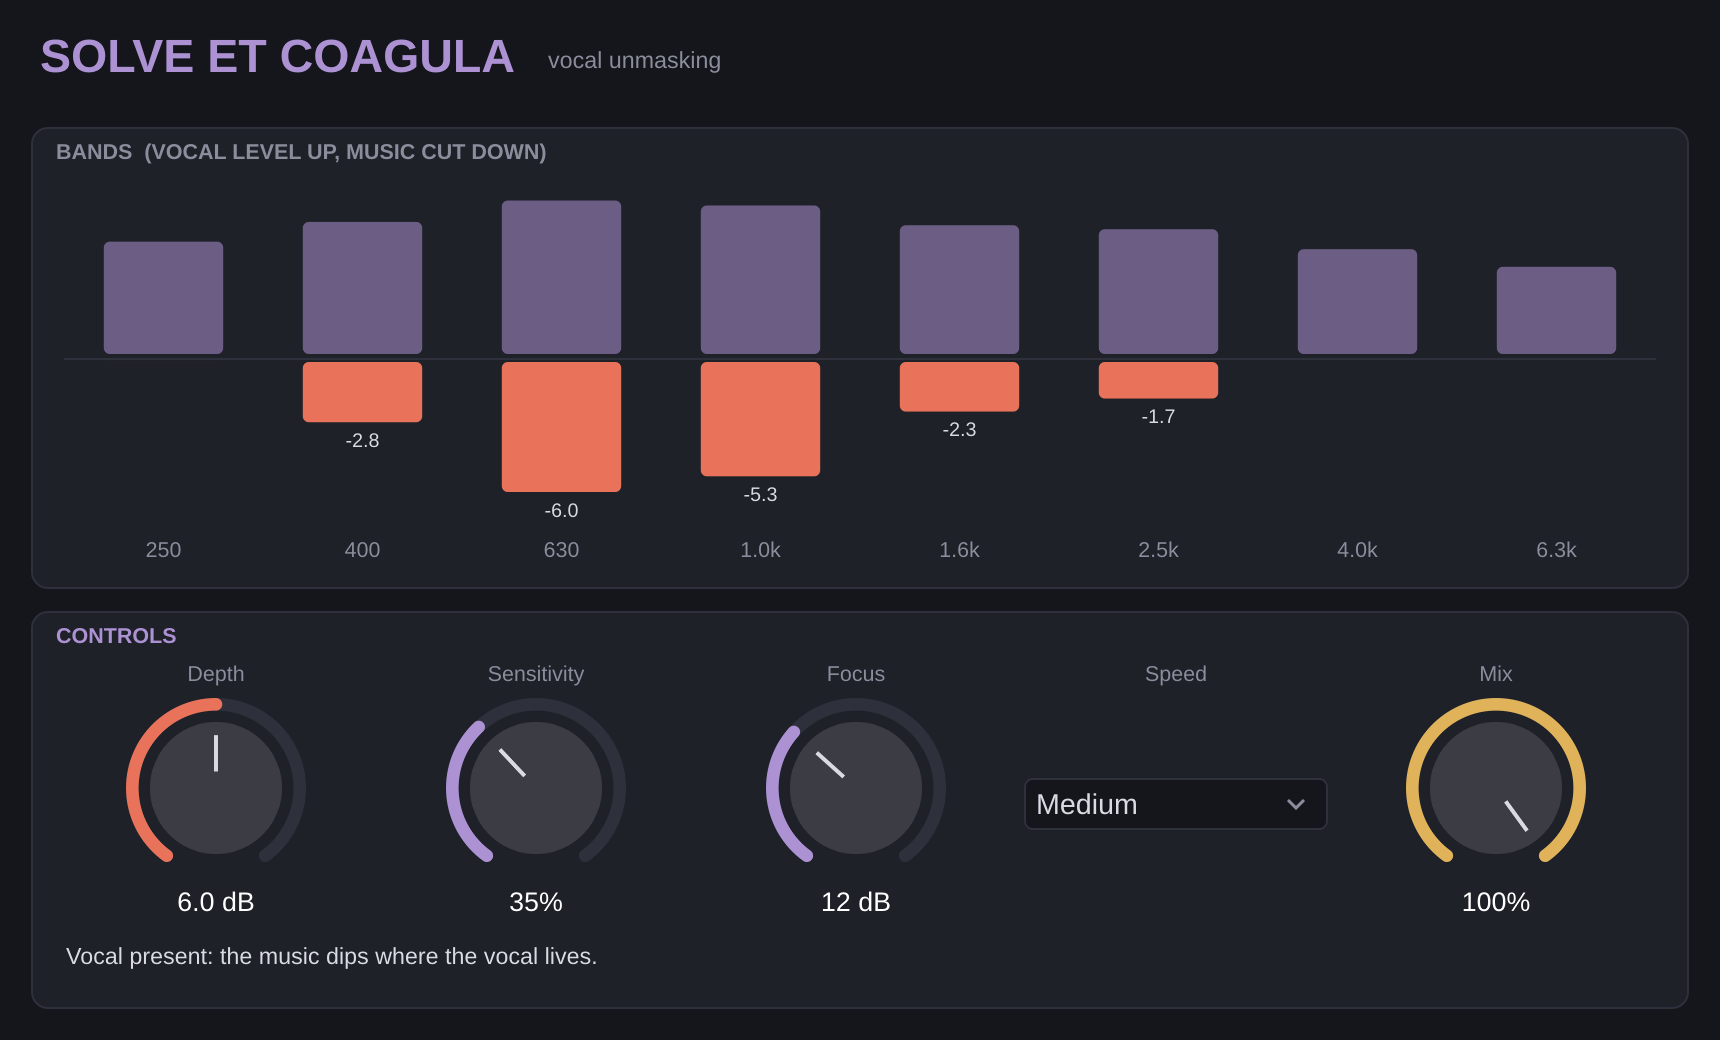
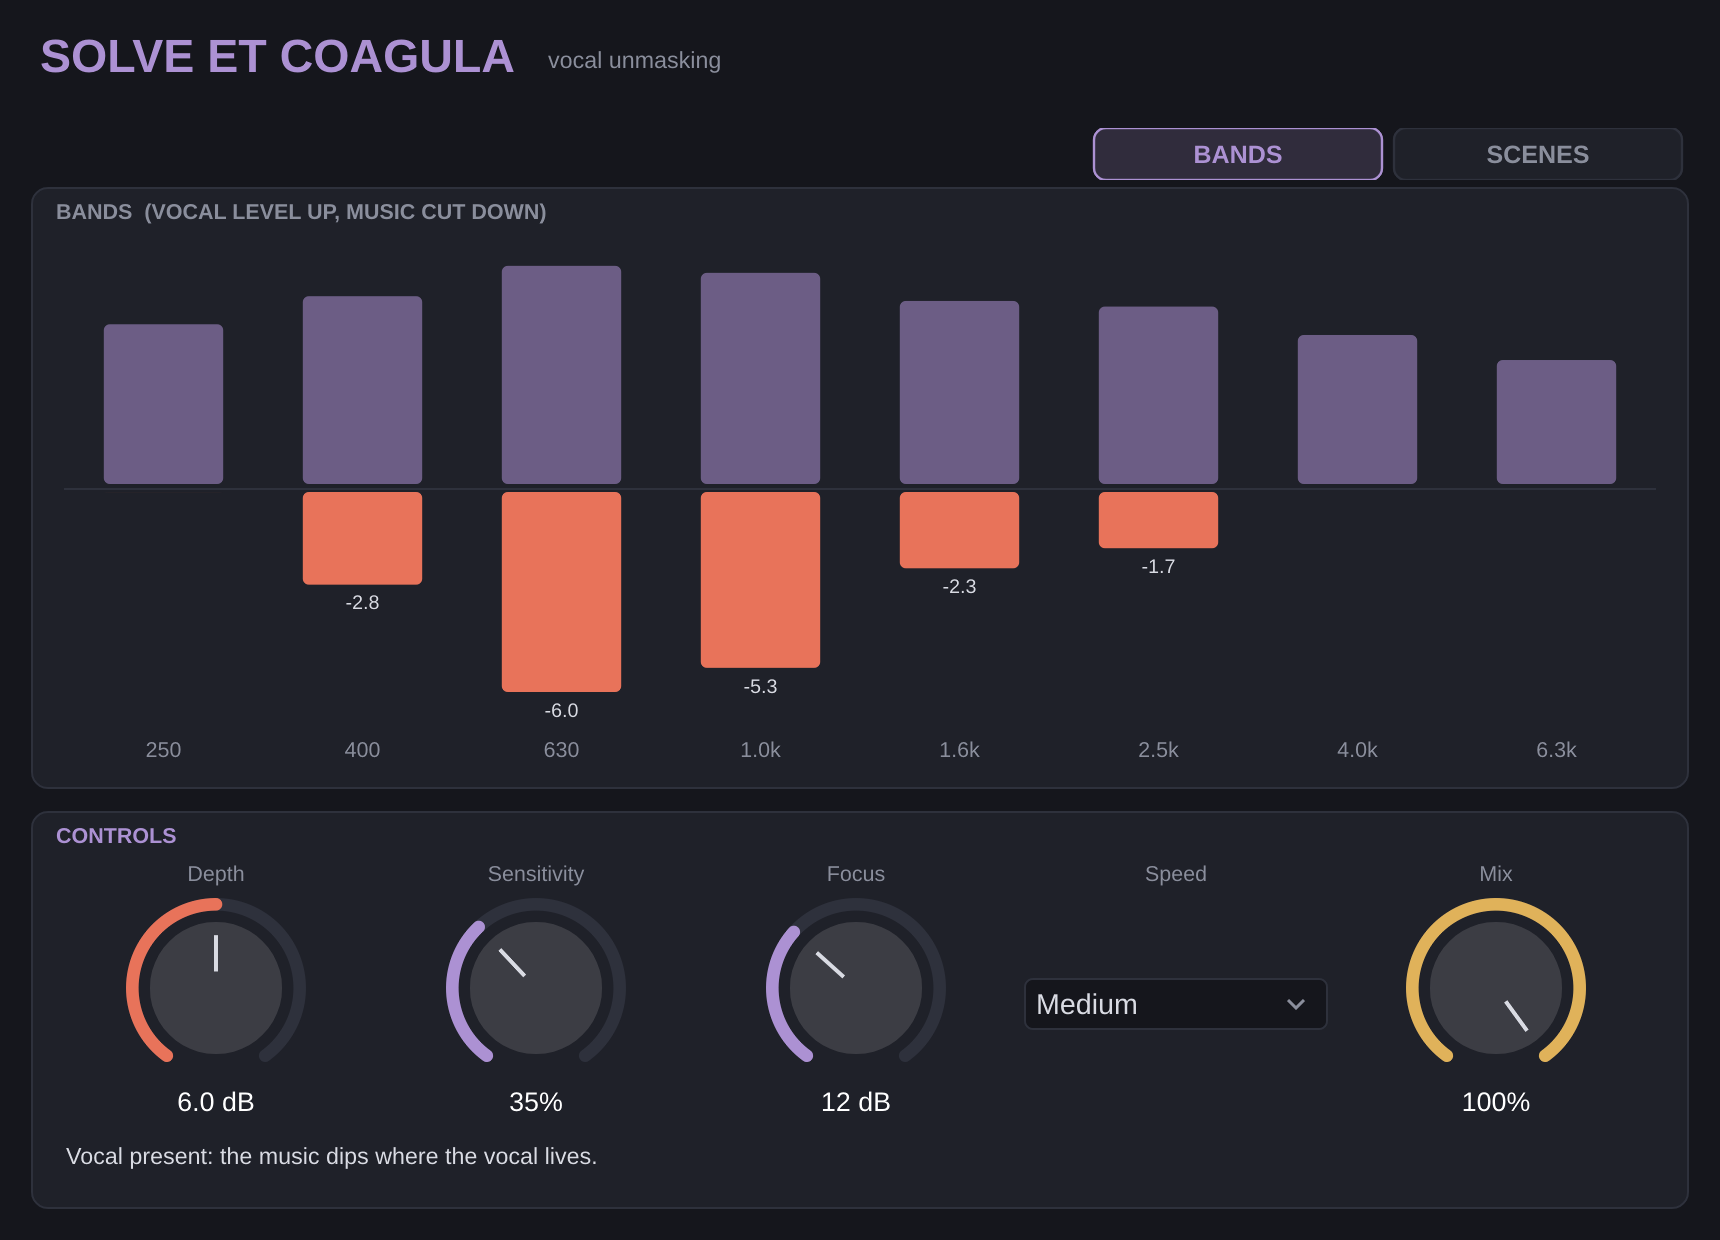
Solve et Coagula: section scenes
Depth, sensitivity, focus and mix follow Ouroboros sections with the
shared scene engine: suggested deeper dips in drops (and Drop 2+), lighter
in breakdowns. Bands/Scenes tabs, ghost rings, saved with the project.

Claude-Session: https://claude.ai/code/session_01EWJNqEa1W7PthaDHKK8sn4

diff --git a/plugins/SolveEtCoagula/Source/PluginProcessor.cpp b/plugins/SolveEtCoagula/Source/PluginProcessor.cpp
@@ -1,5 +1,6 @@
 #include "PluginProcessor.h"
 #include "PluginEditor.h"
+#include "HostInfo.h"
 
 namespace
 {
@@ -18,6 +19,7 @@ namespace
                                                       Attr().withStringFromValueFunction ([] (float v, int) { return v < 9.0f ? String ("Narrow") : v > 18.0f ? String ("Wide") : String (roundToInt (v)) + " dB"; })));
         l.add (std::make_unique<AudioParameterChoice> (ParameterID { P::speedId, 1 }, "Speed", StringArray { "Fast", "Medium", "Slow" }, 1));
         l.add (std::make_unique<AudioParameterFloat> (ParameterID { P::mixId, 1 }, "Mix", NormalisableRange<float> (0.0f, 100.0f), 100.0f, percent));
+        suite::SceneEngine::addParameters (l);
         return l;
     }
 }
@@ -29,6 +31,12 @@ SolveEtCoagulaProcessor::SolveEtCoagulaProcessor()
                           .withInput  ("Sidechain", juce::AudioChannelSet::stereo(), false)),
       apvts (*this, nullptr, "SolveEtCoagulaState", layout())
 {
+    // Section scenes: dense drops need more room for the vocal, sparse breakdowns less.
+    using T = suite::SectionType;
+    scenes.setup (apvts,
+                  { { depthId, "Depth" }, { sensitivityId, "Sensitivity" }, { focusId, "Focus" }, { mixId, "Mix" } },
+                  { { T::Breakdown, sDepth, -0.25f }, { T::Build, sDepth, 0.1f }, { T::Drop, sDepth, 0.2f },
+                    { T::Drop, sFocus, 0.15f }, { T::count, sDepth, 0.05f } });   // Drop 2+
 }
 
 bool SolveEtCoagulaProcessor::isBusesLayoutSupported (const BusesLayout& layouts) const
@@ -51,6 +59,7 @@ void SolveEtCoagulaProcessor::prepareToPlay (double newSampleRate, int)
 {
     sampleRate = newSampleRate;
     unmasker.prepare (sampleRate);
+    scenes.prepare();
 }
 
 void SolveEtCoagulaProcessor::processBlock (juce::AudioBuffer<float>& buffer, juce::MidiBuffer&)
@@ -59,13 +68,14 @@ void SolveEtCoagulaProcessor::processBlock (juce::AudioBuffer<float>& buffer, ju
 
     static const float attack[] = { 3.0f, 10.0f, 25.0f }, release[] = { 60.0f, 150.0f, 350.0f };
     const auto speed = juce::jlimit (0, 2, (int) value (speedId));
+    scenes.beginBlock (suite::HostInfo::read (getPlayHead()), sampleRate, buffer.getNumSamples());
     Unmasker::Settings s;
-    s.depthDb = value (depthId);
-    s.thresholdDb = thresholdFor (value (sensitivityId));
-    s.focusDb = value (focusId);
+    s.depthDb = scenes.plain (sDepth);
+    s.thresholdDb = thresholdFor (scenes.plain (sSensitivity));
+    s.focusDb = scenes.plain (sFocus);
     s.attackMs = attack[speed];
     s.releaseMs = release[speed];
-    s.mix = value (mixId) * 0.01f;
+    s.mix = scenes.plain (sMix) * 0.01f;
     unmasker.update (s);
 
     auto mainBus = getBusBuffer (buffer, false, 0);
@@ -94,14 +104,16 @@ void SolveEtCoagulaProcessor::processBlock (juce::AudioBuffer<float>& buffer, ju
         left[n] = l;
         if (right != nullptr) right[n] = r;
     }
-    vocalPresent.store (juce::Decibels::gainToDecibels (keyPeak, -100.0f) > thresholdFor (value (sensitivityId)));
+    vocalPresent.store (juce::Decibels::gainToDecibels (keyPeak, -100.0f) > s.thresholdDb);
 }
 
 juce::AudioProcessorEditor* SolveEtCoagulaProcessor::createEditor() { return new SolveEtCoagulaEditor (*this); }
 
 void SolveEtCoagulaProcessor::getStateInformation (juce::MemoryBlock& destData)
 {
-    if (auto xml = apvts.copyState().createXml())
+    auto state = apvts.copyState();
+    scenes.writeInto (state);
+    if (auto xml = state.createXml())
         copyXmlToBinary (*xml, destData);
 }
 
@@ -109,7 +121,11 @@ void SolveEtCoagulaProcessor::setStateInformation (const void* data, int sizeInB
 {
     if (auto xml = getXmlFromBinary (data, sizeInBytes))
         if (xml->hasTagName (apvts.state.getType()))
-            apvts.replaceState (juce::ValueTree::fromXml (*xml));
+        {
+            auto state = juce::ValueTree::fromXml (*xml);
+            scenes.readFrom (state);
+            apvts.replaceState (state);
+        }
 }
 
 juce::AudioProcessor* JUCE_CALLTYPE createPluginFilter() { return new SolveEtCoagulaProcessor(); }

diff --git a/plugins/SolveEtCoagula/Tests.cpp b/plugins/SolveEtCoagula/Tests.cpp
@@ -2,6 +2,8 @@
 
 #include "PluginProcessor.h"
 #include "TestUtils.h"
+#include "PluginEditor.h"
+#include "SectionBus.h"
 
 using namespace suite::test;
 
@@ -164,6 +166,63 @@ int main (int argc, char** argv)
         const auto narrowCut = changeDb (*narrow, 2500.0, key);
         check (wideCut < narrowCut - 2.0f && narrowCut > -1.0f, "narrow focus leaves the weaker band alone (wide "
                    + juce::String (wideCut, 1) + " dB, narrow " + juce::String (narrowCut, 1) + " dB)");
+    }
+
+    section ("Section scenes");
+    {
+        suite::SectionMap map;   // Breakdown bars 1-4, Drop bars 5-8
+        map.totalBars = 8; map.count = 2;
+        map.sections[0] = { 1, suite::SectionType::Breakdown };
+        map.sections[1] = { 5, suite::SectionType::Drop };
+        suite::SectionBus::publish (map);
+        const auto key = sine (1000.0, 0.1f);
+
+        auto cutIn = [&] (double ppq)
+        {
+            auto p = make (true);
+            FakePlayHead head;
+            head.ppq = ppq;
+            p->setPlayHead (&head);
+            const auto db = changeDb (*p, 1000.0, key);
+            p->setPlayHead (nullptr);
+            return db;
+        };
+        const auto inBreakdown = cutIn (2.0), inDrop = cutIn (18.0);
+        check (inDrop < inBreakdown - 3.0f, "dips deeper in the drop (" + juce::String (inDrop, 1) + " dB) than in the breakdown ("
+                                                + juce::String (inBreakdown, 1) + " dB)");
+
+        auto off = make (true);
+        set (*off, suite::SceneEngine::enabledId, 0.0f);
+        FakePlayHead head;
+        head.ppq = 18.0;
+        off->setPlayHead (&head);
+        auto plainDrop = changeDb (*off, 1000.0, key);
+        off->setPlayHead (nullptr);
+        auto none = make (true);
+        const auto noMap = changeDb (*none, 1000.0, key);
+        check (std::abs (plainDrop - noMap) < 0.2f, "scenes off: the knobs alone decide (" + juce::String (plainDrop, 1) + " dB)");
+
+        auto a = make (true);
+        a->scenes.setOffset ((int) suite::SectionType::Drop, P::sDepth, 0.4f);
+        juce::MemoryBlock state;
+        a->getStateInformation (state);
+        auto b = make (true);
+        b->setStateInformation (state.getData(), (int) state.getSize());
+        check (std::abs (b->scenes.getOffset ((int) suite::SectionType::Drop, P::sDepth) - 0.4f) < 1.0e-3f, "scenes are saved with the project");
+
+        if (outDir != juce::File())
+        {
+            auto q = make (true);
+            head.ppq = 18.0;
+            q->setPlayHead (&head);
+            run (*q, 0.3, noise(), key);
+            std::unique_ptr<juce::AudioProcessorEditor> editor (q->createEditor());
+            if (auto* tabs = dynamic_cast<suite::ui::TabBar*> (editor->findChildWithID ("tabs"))) tabs->setSelected (1);
+            snapshot (*editor, outDir.getChildFile ("solveetcoagula_scenes.png"));
+            editor.reset();
+            q->setPlayHead (nullptr);
+        }
+        suite::SectionBus::withdraw();
     }
 
     section ("Layouts and state");

diff --git a/plugins/SolveEtCoagula/Source/PluginEditor.cpp b/plugins/SolveEtCoagula/Source/PluginEditor.cpp
@@ -14,7 +14,8 @@ SolveEtCoagulaEditor::SolveEtCoagulaEditor (SolveEtCoagulaProcessor& p)
       sensitivity (p.apvts, P::sensitivityId, "Sensitivity", accent),
       focus (p.apvts, P::focusId, "Focus", accent),
       mix (p.apvts, P::mixId, "Mix", Colours::brass),
-      speed (p.apvts, P::speedId, "Speed")
+      speed (p.apvts, P::speedId, "Speed"),
+      viewTabs ({ "BANDS", "SCENES" }, { accent, Colours::ember })
 {
     setLookAndFeel (&lnf);
     status.setFont (juce::FontOptions (13.0f));
@@ -22,7 +23,12 @@ SolveEtCoagulaEditor::SolveEtCoagulaEditor (SolveEtCoagulaProcessor& p)
     for (auto* c : std::initializer_list<juce::Component*> { &depth, &sensitivity, &focus, &speed, &mix, &status })
         addAndMakeVisible (c);
     keyShown.fill (-100.0f);
-    setSize (860, 520);
+    scenePanel = std::make_unique<suite::ui::ScenePanel> (p.scenes, p.apvts);
+    addChildComponent (*scenePanel);
+    addAndMakeVisible (viewTabs);
+    viewTabs.setComponentID ("tabs");
+    viewTabs.onChange = [this] (int i) { scenePanel->setVisible (i == 1); repaint(); };
+    setSize (860, 620);
     timerCallback();
     startTimerHz (30);
 }
@@ -50,6 +56,7 @@ void SolveEtCoagulaEditor::timerCallback()
         text = "Sidechain connected; waiting for the vocal.";
     status.setColour (juce::Label::textColourId, processor.sidechainConnected.load() ? Colours::text : Colours::dimText);
     status.setText (text, juce::dontSendNotification);
+    suite::ui::updateSceneGhosts (*this, processor.scenes);
     repaint (bandArea);
 }
 
@@ -57,8 +64,10 @@ void SolveEtCoagulaEditor::paint (juce::Graphics& g)
 {
     g.fillAll (Colours::background);
     drawHeader (g, { 20, 12, 760, 32 }, "SOLVE ET COAGULA", "vocal unmasking", accent);
-    drawPanel (g, bandArea, "Bands  (vocal level up, music cut down)");
     drawPanel (g, controlArea, "Controls", accent);
+    if (viewTabs.getSelected() == 1)
+        return;   // the scene panel draws itself
+    drawPanel (g, bandArea, "Bands  (vocal level up, music cut down)");
 
     auto r = bandArea.reduced (16, 10).withTrimmedTop (18).toFloat();
     auto labels = r.removeFromBottom (18);
@@ -103,7 +112,9 @@ void SolveEtCoagulaEditor::resized()
 {
     auto bounds = getLocalBounds().reduced (16);
     bounds.removeFromTop (48);
-    bandArea = bounds.removeFromTop (230);
+    viewTabs.setBounds (bounds.removeFromTop (30).removeFromRight (300).withTrimmedBottom (4));
+    bandArea = bounds.removeFromTop (300);
+    scenePanel->setBounds (bandArea);
     bounds.removeFromTop (12);
     controlArea = bounds;
 

diff --git a/plugins/SolveEtCoagula/Source/PluginEditor.h b/plugins/SolveEtCoagula/Source/PluginEditor.h
@@ -3,6 +3,7 @@
 #include <juce_audio_processors/juce_audio_processors.h>
 #include "PluginProcessor.h"
 #include "SuiteUI.h"
+#include "SceneUI.h"
 
 class SolveEtCoagulaEditor : public juce::AudioProcessorEditor, private juce::Timer
 {
@@ -21,6 +22,8 @@ private:
     suite::ui::Knob depth, sensitivity, focus, mix;
     suite::ui::Choice speed;
     juce::Label status;
+    suite::ui::TabBar viewTabs;
+    std::unique_ptr<suite::ui::ScenePanel> scenePanel;
     juce::Rectangle<int> bandArea, controlArea;
     std::array<float, Unmasker::numBands> cutShown {}, keyShown {};
 

diff --git a/plugins/SolveEtCoagula/Source/PluginProcessor.h b/plugins/SolveEtCoagula/Source/PluginProcessor.h
@@ -2,6 +2,7 @@
 
 #include <juce_audio_processors/juce_audio_processors.h>
 #include "Unmasker.h"
+#include "Scenes.h"
 
 class SolveEtCoagulaProcessor : public juce::AudioProcessor
 {
@@ -40,6 +41,8 @@ public:
     static float thresholdFor (float sensitivityPercent) { return -30.0f - 0.3f * sensitivityPercent; }
 
     Unmasker unmasker;
+    suite::SceneEngine scenes;
+    enum SceneSlot { sDepth, sSensitivity, sFocus, sMix };
     std::atomic<bool> sidechainConnected { false }, vocalPresent { false };
     juce::AudioProcessorValueTreeState apvts;
 
